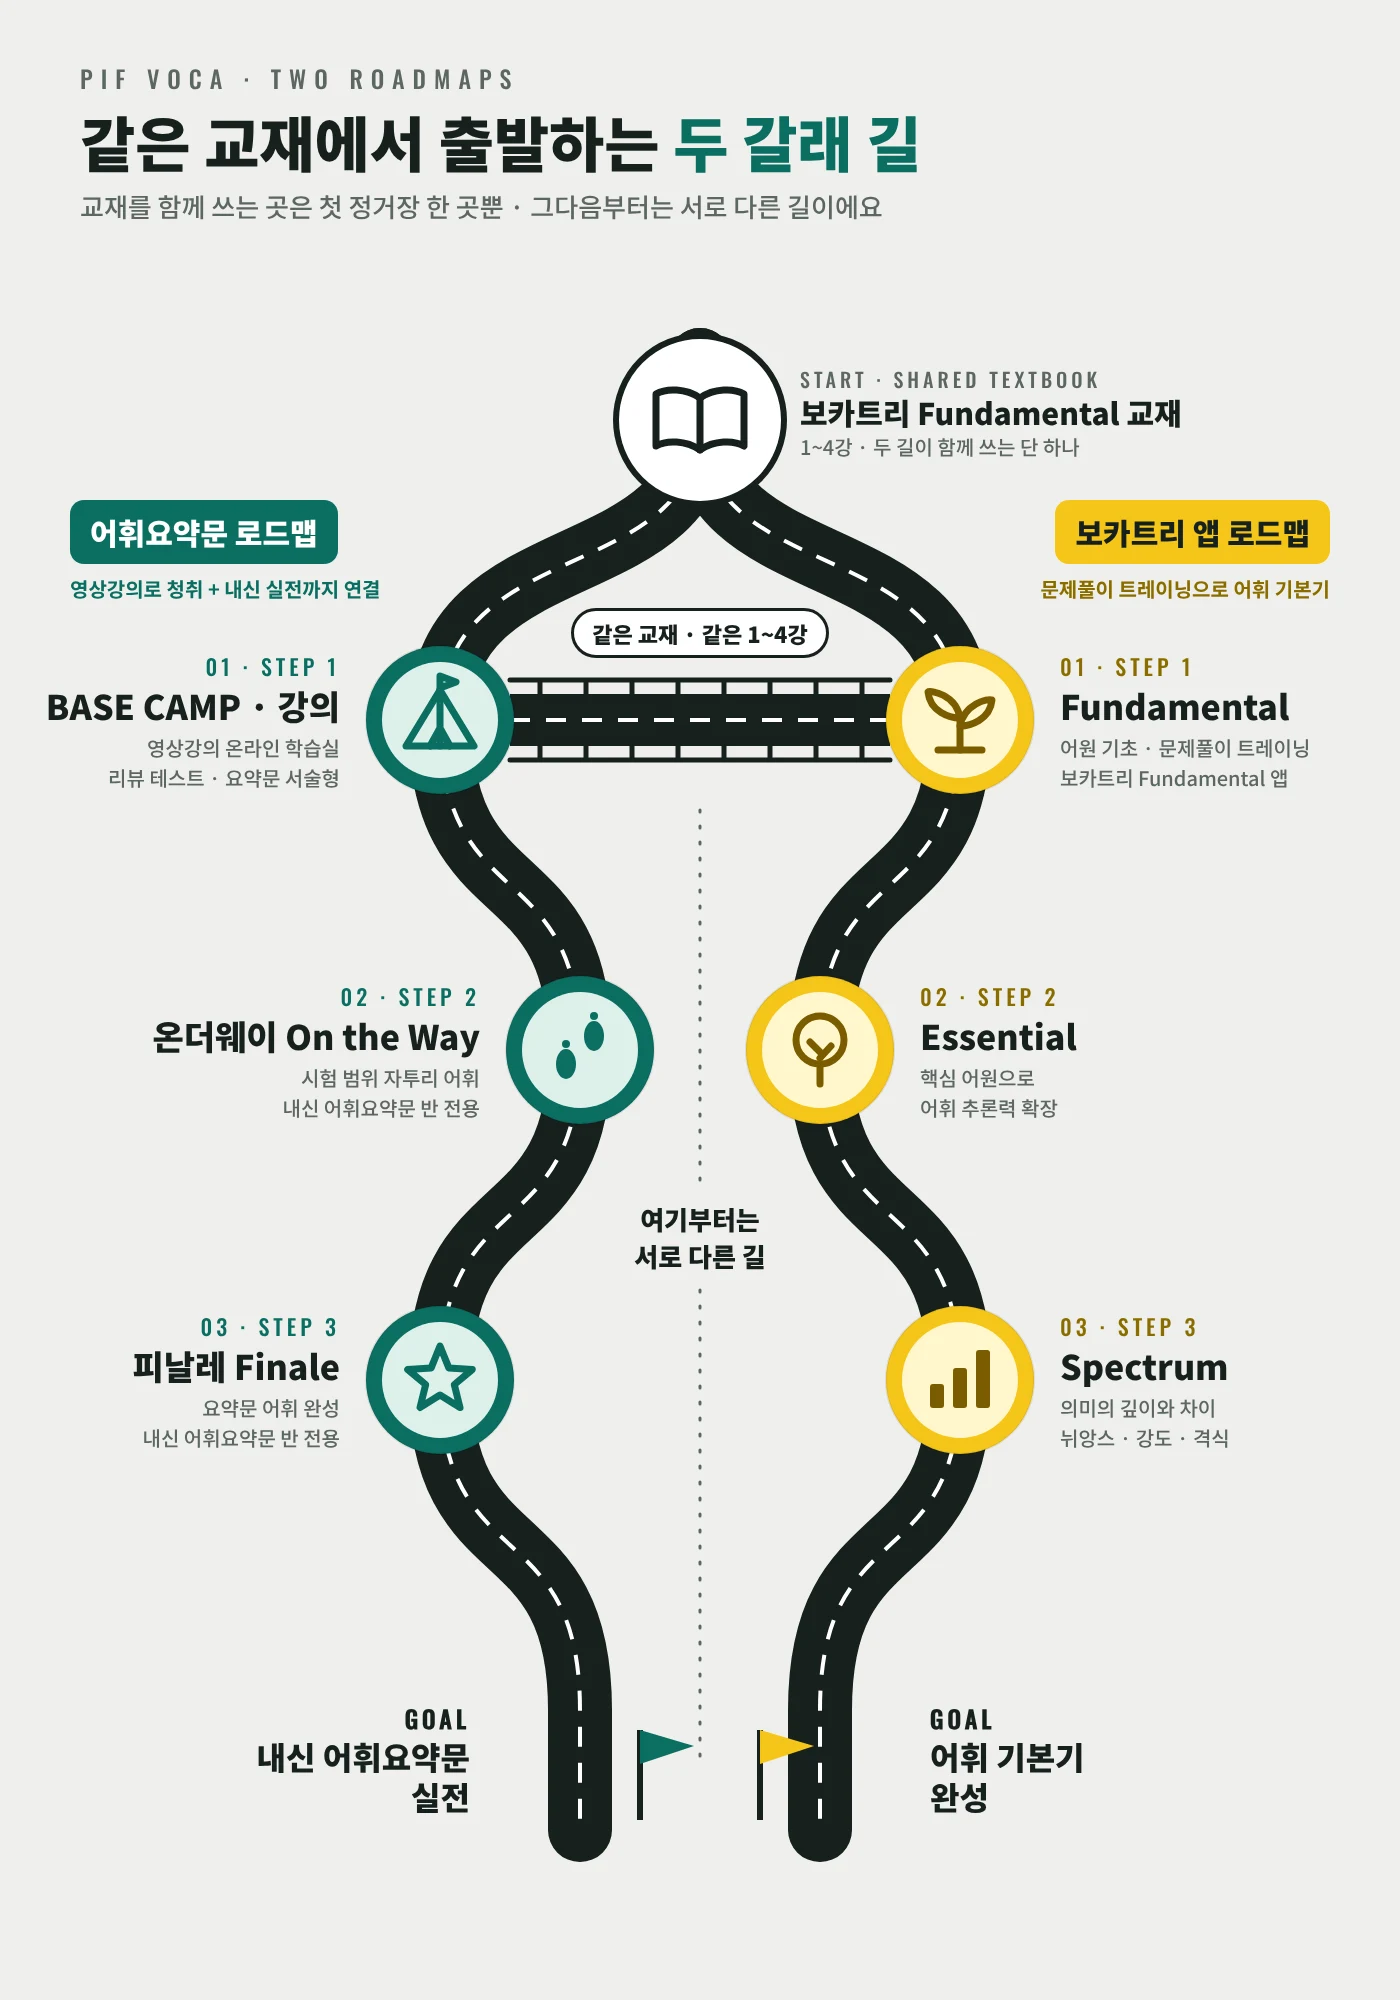
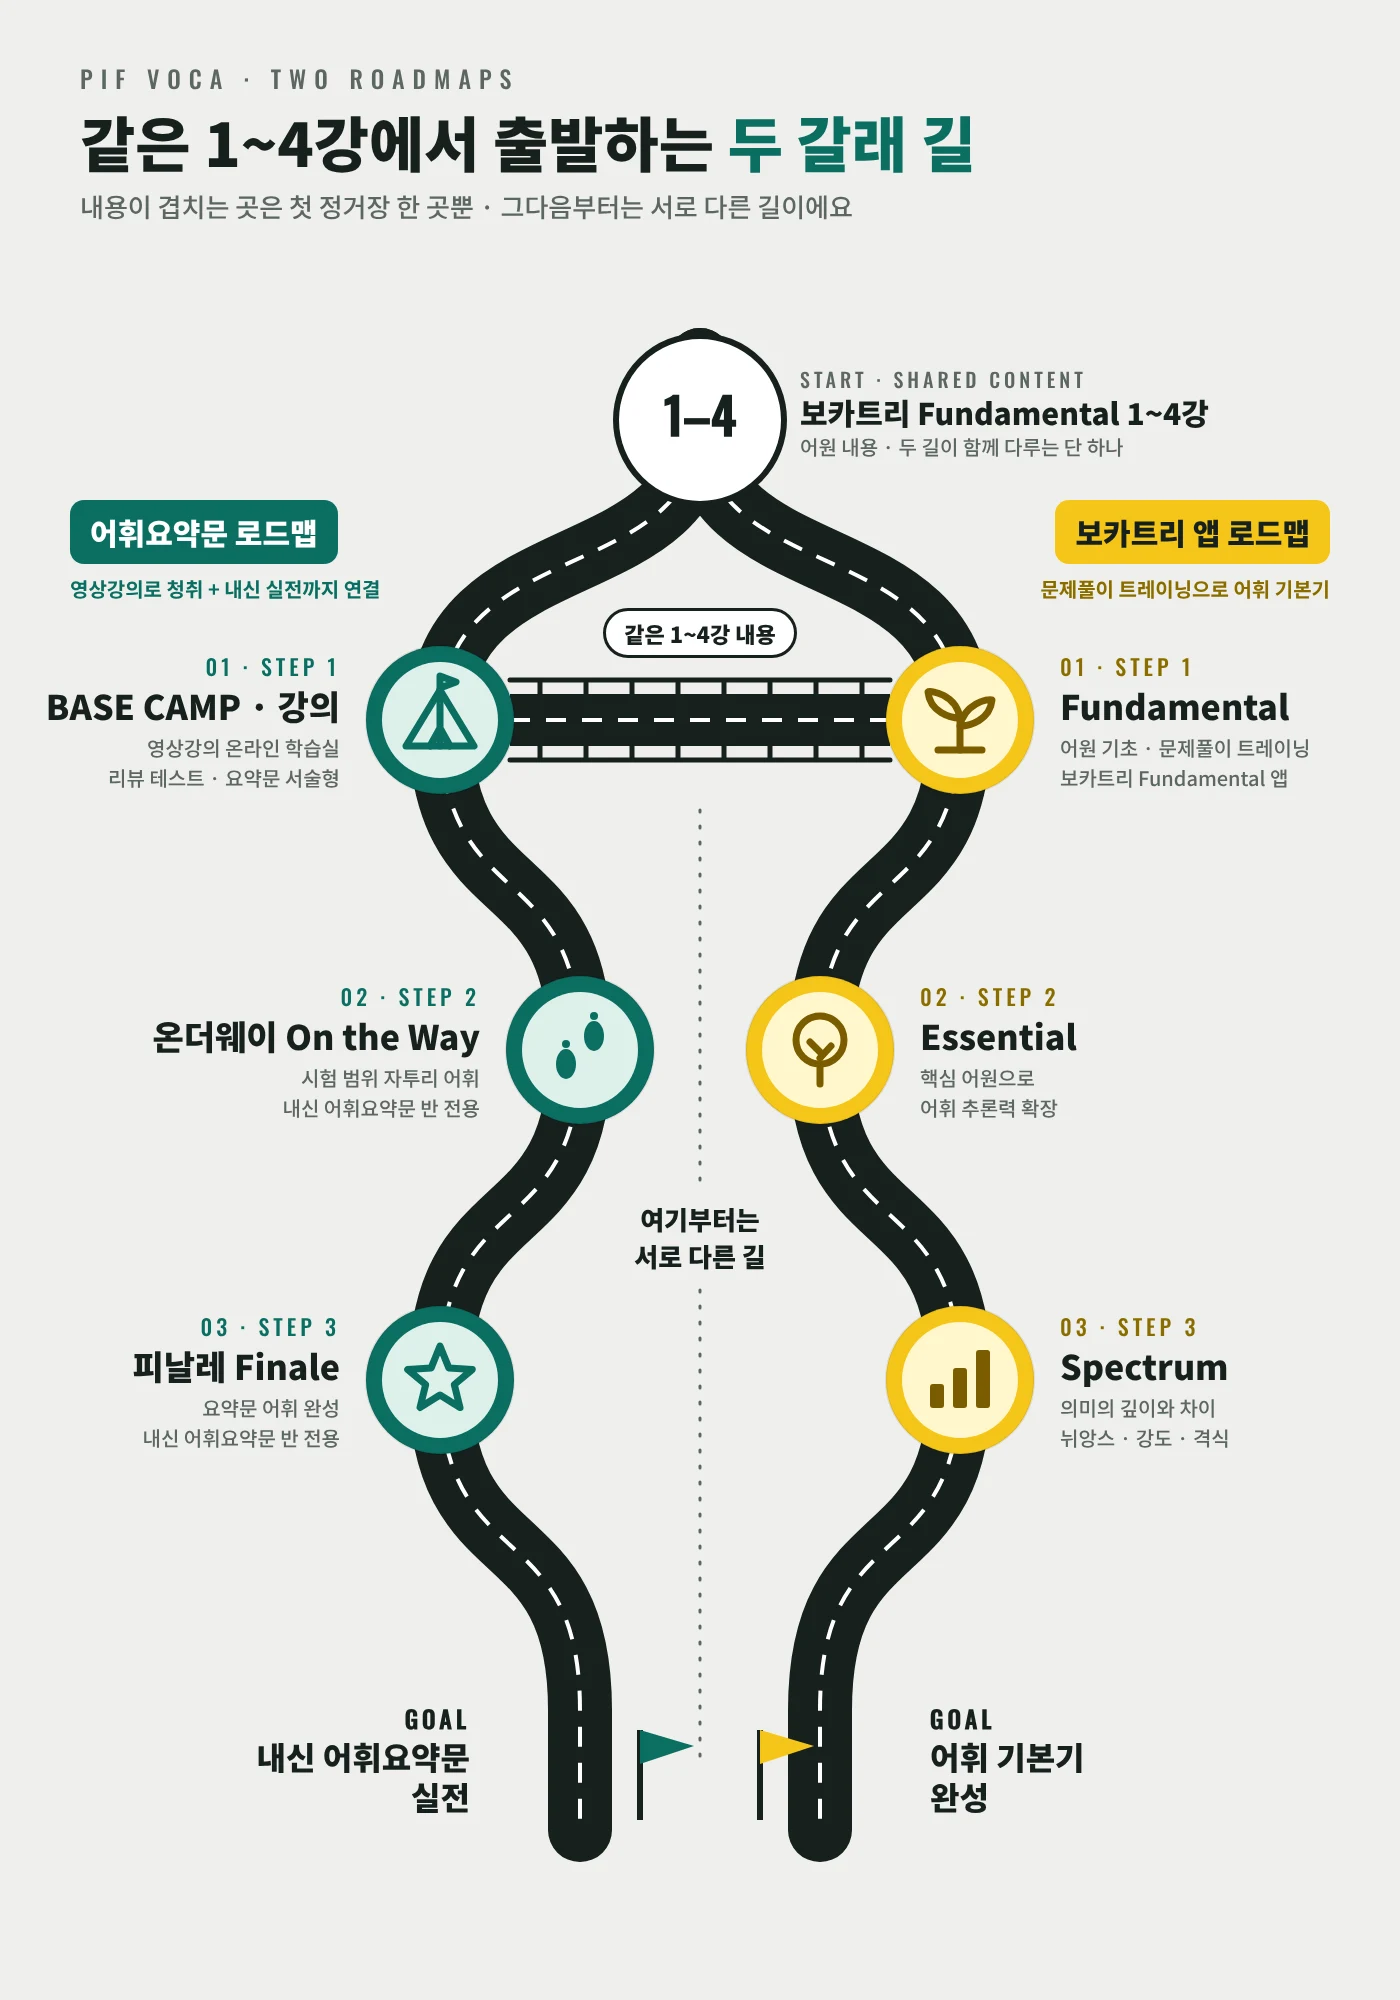
로드맵 지도: '같은 교재' → '같은 1~4강 내용' (보카트리 앱 로드맵은 교재 필수 아님)
Claude-Session: https://claude.ai/code/session_01NqW5XzabnaLdTwsvbjVCN1

diff --git a/learn/index.html b/learn/index.html
@@ -181,7 +181,7 @@ h1{font-size:clamp(30px,4.4vw,44px);font-weight:750;letter-spacing:-.045em;line-
   </div>
 
   <button class="mapstrip" type="button" onclick="document.getElementById('mapOv').hidden=false"><span class="mi"><svg width="22" height="22" viewBox="0 0 24 24" fill="none" stroke="#F5C518" stroke-width="2.2" stroke-linecap="round" stroke-linejoin="round" aria-hidden="true"><path d="M7 21c0-6 10-6 10-12V3"/><path d="M17 21c0-5-6-6-8-9" stroke="#7FC4B0"/></svg></span><span class="mt"><b>어휘 로드맵 지도</b><small>보카트리 앱 로드맵 · 어휘요약문 로드맵 한눈에 보기</small></span><svg aria-hidden="true" width="18" height="18" viewBox="0 0 24 24" fill="none" stroke="#86868b" stroke-width="2.2" stroke-linecap="round" stroke-linejoin="round"><path d="M9 6l6 6-6 6"/></svg></button>
-  <div class="mapov" id="mapOv" hidden onclick="if(event.target===this)this.hidden=true"><button type="button" aria-label="닫기" onclick="document.getElementById('mapOv').hidden=true">×</button><img src="/img/roadmap-two-paths.webp" alt="어휘 로드맵 지도: 보카트리 Fundamental 교재에서 출발해 어휘요약문 로드맵(BASE CAMP·온더웨이·피날레)과 보카트리 앱 로드맵(Fundamental·Essential·Spectrum)으로 갈라지는 두 갈래 길" loading="lazy"></div>
+  <div class="mapov" id="mapOv" hidden onclick="if(event.target===this)this.hidden=true"><button type="button" aria-label="닫기" onclick="document.getElementById('mapOv').hidden=true">×</button><img src="/img/roadmap-two-paths.webp" alt="어휘 로드맵 지도: 보카트리 Fundamental 1~4강에서 출발해 어휘요약문 로드맵(BASE CAMP·온더웨이·피날레)과 보카트리 앱 로드맵(Fundamental·Essential·Spectrum)으로 갈라지는 두 갈래 길" loading="lazy"></div>
   <div class="grp"><b>보카트리 앱 로드맵 · VocaTree</b><span>Fundamental › Essential › Spectrum · 문제풀이 트레이닝으로 어휘 기본기</span></div>
   <div class="grid" id="vocab"></div>
   <div id="bcBox"></div>

diff --git a/ydvoca/index.html b/ydvoca/index.html
@@ -136,7 +136,7 @@ select.pick.ok{border-color:var(--tl);background:var(--mint2)} select.pick.bad{b
 </style>
 </head>
 <body>
-<div class="mapov" id="mapOv" hidden onclick="if(event.target===this)this.hidden=true"><button type="button" aria-label="닫기" onclick="document.getElementById('mapOv').hidden=true">×</button><img src="/img/roadmap-two-paths.webp" alt="어휘 로드맵 지도: 보카트리 Fundamental 교재에서 출발해 어휘요약문 로드맵(BASE CAMP·온더웨이·피날레)과 보카트리 앱 로드맵(Fundamental·Essential·Spectrum)으로 갈라지는 두 갈래 길" loading="lazy"></div>
+<div class="mapov" id="mapOv" hidden onclick="if(event.target===this)this.hidden=true"><button type="button" aria-label="닫기" onclick="document.getElementById('mapOv').hidden=true">×</button><img src="/img/roadmap-two-paths.webp" alt="어휘 로드맵 지도: 보카트리 Fundamental 1~4강에서 출발해 어휘요약문 로드맵(BASE CAMP·온더웨이·피날레)과 보카트리 앱 로드맵(Fundamental·Essential·Spectrum)으로 갈라지는 두 갈래 길" loading="lazy"></div>
 <div class="wrap" id="app"></div>
 <div class="toast" id="toast"></div>
 <script src="https://www.youtube.com/iframe_api" async></script>
